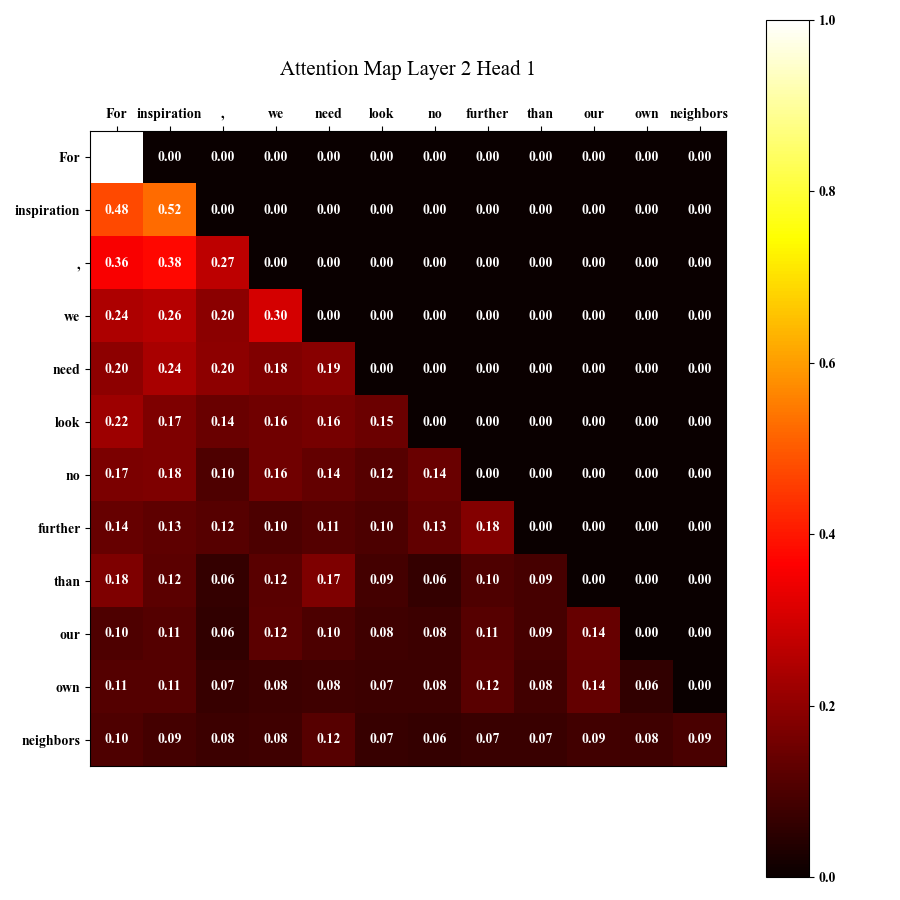
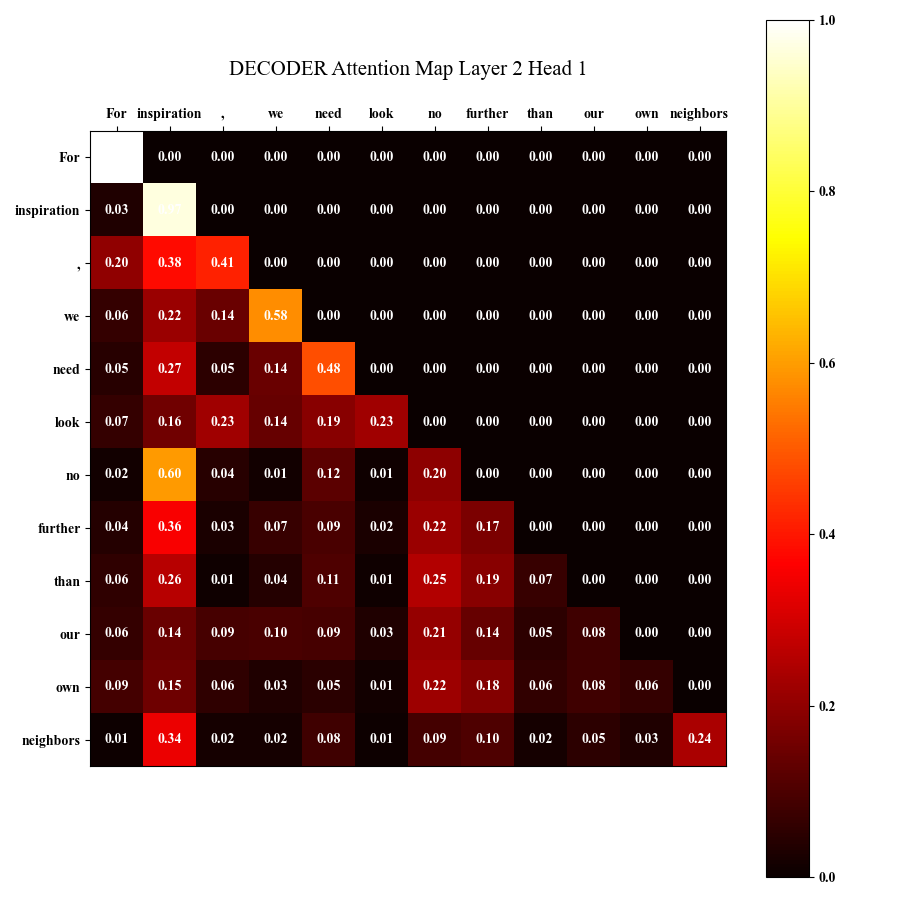
decoder dropout should be 0.0

Changed region(s): [[0.0933, 0.1867, 0.8089, 0.8711], [0.2489, 0.0622, 0.6533, 0.0933]]

diff --git a/main.py b/main.py
@@ -305,7 +305,7 @@ def main():
             heads=n_head,
             device=device,
             feed_forward_dimension=100,
-            dropout=0.1,
+            dropout=0.0,
             max_length=block_size
         )
         print("Training Decoder Generation Model ......")
